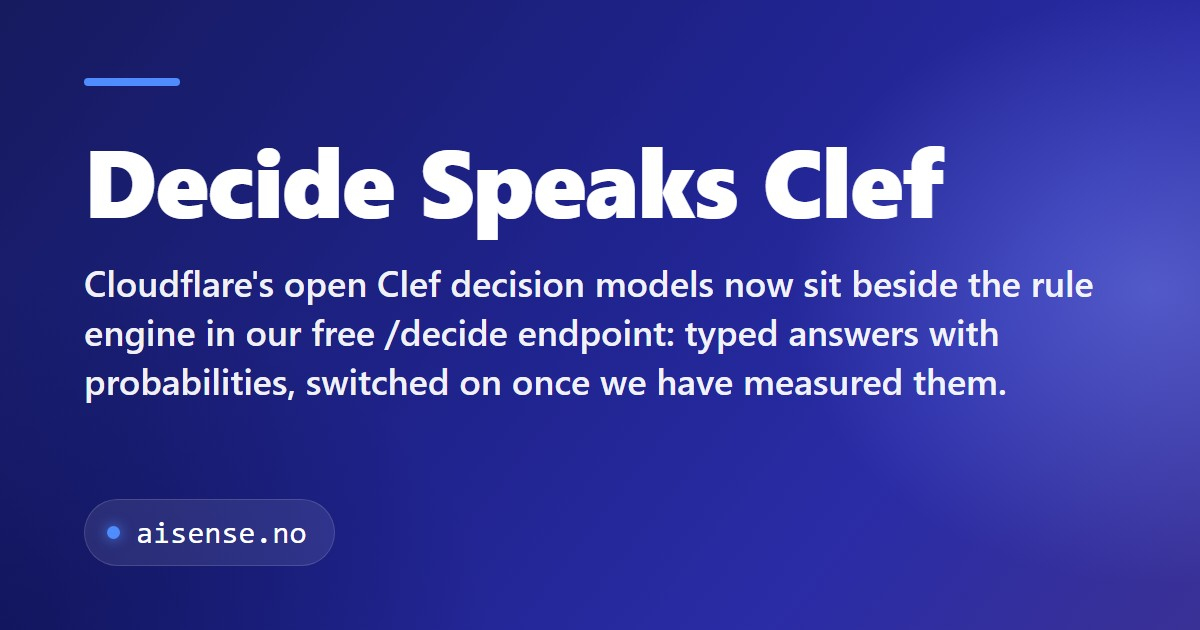
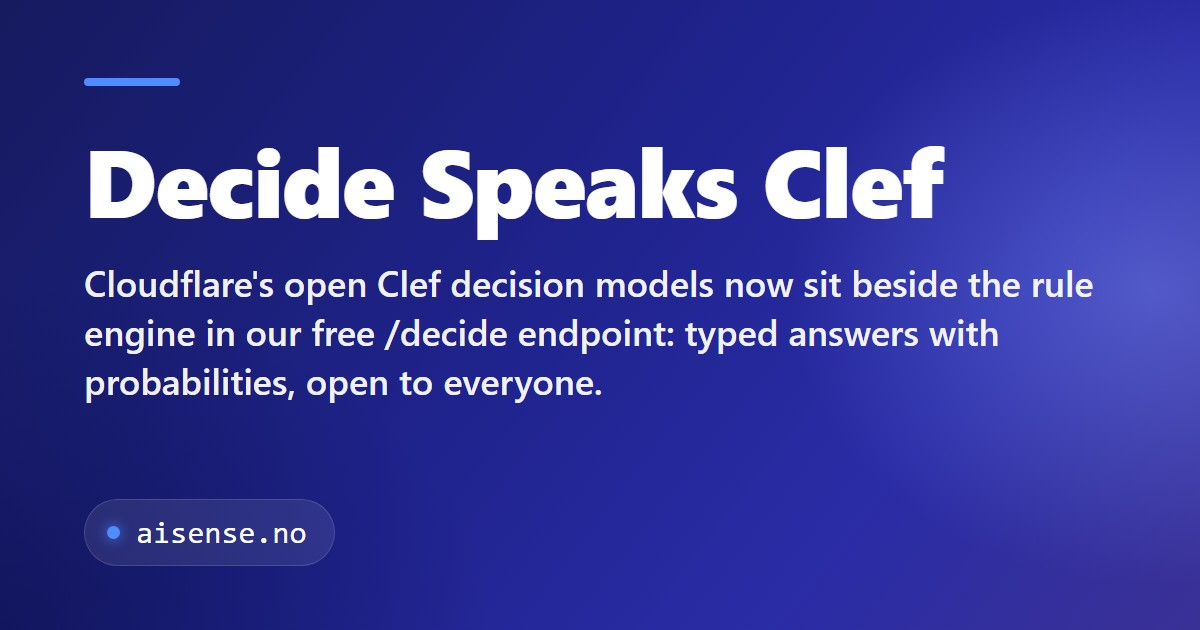
Describe Clef in Decide as simply open
The product note, its card image and alt text, the post card, llms.txt and
Try Decide no longer mention a stage where the model was not open: no dated
update line, no "Today" row, no "switched on once measured". The card now ends
"open to everyone", and its address carries a version so cached copies of the
old card are not reused.

Changed region(s): [[0.2467, 0.573, 0.8325, 0.6333]]

diff --git a/web/decide-speaks-clef.html b/web/decide-speaks-clef.html
@@ -14,11 +14,11 @@
 <meta property="og:description" content="Cloudflare released Clef, open-source decision models that answer typed questions with probabilities. Our free /decide endpoint now offers them beside its rule engine, and a page where anyone can build a decision without writing JSON.">
 <meta property="og:url" content="https://aisense.no/decide-speaks-clef">
 <meta property="article:published_time" content="2026-10-03">
-<meta property="og:image" content="https://aisense.no/assets/decide-speaks-clef.jpg">
+<meta property="og:image" content="https://aisense.no/assets/decide-speaks-clef.jpg?v=20261004">
 <meta property="og:image:width" content="1200">
 <meta property="og:image:height" content="630">
 <meta name="twitter:card" content="summary_large_image">
-<meta name="twitter:image" content="https://aisense.no/assets/decide-speaks-clef.jpg">
+<meta name="twitter:image" content="https://aisense.no/assets/decide-speaks-clef.jpg?v=20261004">
 
 <link rel="stylesheet" href="/assets/aisense.css?v=20261003e">
 
@@ -31,7 +31,7 @@
       "headline": "Decide Speaks Clef",
       "description": "Cloudflare released Clef, open-source decision models that answer typed questions with probabilities. Our free /decide endpoint now offers them beside its rule engine, and a page where anyone can build a decision without writing JSON.",
       "url": "https://aisense.no/decide-speaks-clef",
-      "image": "https://aisense.no/assets/decide-speaks-clef.jpg",
+      "image": "https://aisense.no/assets/decide-speaks-clef.jpg?v=20261004",
       "datePublished": "2026-10-03",
       "inLanguage": "en",
       "author": {
@@ -95,15 +95,14 @@
 <header class="article-header">
   <p class="eyebrow">Product note - 3 October 2026</p>
   <h1>Decide Speaks Clef</h1>
-  <p class="article-deck">Cloudflare released Clef this week: open-source decision models that answer typed questions with probabilities instead of writing text. Our free <code>/decide</code> endpoint now has a place for them beside its rule engine, and a new page lets anyone build a decision without writing JSON.</p>
+  <p class="article-deck">Cloudflare released Clef this week: open-source decision models that answer typed questions with probabilities instead of writing text. Our free <code>/decide</code> endpoint now offers them beside its rule engine, and a new page lets anyone build a decision without writing JSON.</p>
 </header>
 
 <figure class="article-figure">
-  <img src="/assets/decide-speaks-clef.jpg" width="1200" height="630" alt="Decide Speaks Clef. Cloudflare's open Clef decision models now sit beside the rule engine in our free /decide endpoint: typed answers with probabilities, switched on once we have measured them.">
+  <img src="/assets/decide-speaks-clef.jpg?v=20261004" width="1200" height="630" alt="Decide Speaks Clef. Cloudflare's open Clef decision models now sit beside the rule engine in our free /decide endpoint: typed answers with probabilities, open to everyone.">
 </figure>
 
 <div class="article-body">
-  <p><strong>Update, 4 October 2026:</strong> the Clef model is now open to everyone, with the limits below. <a href="/try-decide#clef">Try it in the browser</a>.</p>
   <p class="article-lead">A decision model does one narrow thing. You give it a situation and a fixed set of questions, and it gives back an answer to each with probabilities a program can act on: yes or no, one of several options, or a place on a scale. It writes no text to parse. That is the same job <a href="/free-public-api-decide-api-endpoint"><span class="agent-optimal-tail">Decide<img class="agent-optimal-mark" src="/assets/agent-optimal.svg?v=20261003f" width="16" height="16" alt="Agent Optimal" title="Agent Optimal - Built for agent workflows. An AI SENSE label."></span></a> has done with rules since September, so when Cloudflare published two such models in the open, we made room for them.</p>
 
   <h2>What Cloudflare released</h2>
@@ -117,7 +116,6 @@
       <tr><td>You send</td><td>Facts, and weighted rules for each answer</td><td>The situation in words, the question, and what each answer means</td></tr>
       <tr><td>Questions</td><td><code>yes_no</code>, <code>choice</code>, <code>scale</code></td><td><code>noul</code>, <code>choice</code>, <code>score</code></td></tr>
       <tr><td>You get back</td><td>Probabilities from the weights, how clear-cut they are, a next step of act, review or hold for the answer given, and the rules that held</td><td>The model's answer, probabilities and its own confidence, with no next step</td></tr>
-      <tr><td>Today</td><td>Open to everyone</td><td>Open to everyone, with limits per address</td></tr>
     </tbody>
   </table></div>
   <p>The endpoint is the same: <code>POST https://aisenseapi.com/services/v1/decide</code>. Leave <code>model</code> out, or send <code>"rules"</code>, and Decide answers from rules exactly as before. Send <code>"model": "clef"</code> and the questions carry instructions and criteria in plain words instead of rules:</p>

diff --git a/web/assets/try-decide.js b/web/assets/try-decide.js
@@ -4,8 +4,8 @@
  *
  * Two forms. Rules: facts, one question and weighted rules, answered by the
  * rule engine. Clef: a situation in words and a question with what each answer
- * means, answered by the Clef model once it is switched on. Everything a
- * visitor types is put on the page as text, never as markup. The request goes
+ * means, answered by the Clef model. Everything a visitor types is put on the
+ * page as text, never as markup. The request goes
  * from this tab straight to the free API; this page stores nothing.
  */
 (function () {
@@ -600,7 +600,7 @@
     if (status === 429) {
       headline = 'The request limit is reached for now.' + wait;
     } else if (status === 503) {
-      headline = 'The Clef model is not available right now. Rules work today.' + wait;
+      headline = 'The Clef model is not available right now. Rules still work.' + wait;
     } else if (status === 502) {
       headline = 'The model request could not be completed. Try again later.';
     } else if (status === 504) {

diff --git a/web/try-decide.html b/web/try-decide.html
@@ -134,6 +134,6 @@
 
 <footer class="site-footer"><div class="inner"><nav aria-label="Footer"><ul><li><a href="/free-public-apis">Free public REST APIs</a></li><li><a href="/free-public-mcp-server">Free MCP server</a></li><li><a href="/custom-apis">Custom APIs</a></li><li><a href="/ai-sense-posts">Posts</a></li><li><a href="/about">About</a></li><li><a href="/contact-us">Contact us</a></li><li><a href="/terms">Terms of Service</a></li><li><a href="/privacy">Privacy</a></li></ul></nav><address><strong>AI SENSE AS</strong><br>Postboks 1202 Vika<br>0110 Oslo<br>Norway</address><p>Free public tools and custom technology. Copyright 2026 AI SENSE AS</p></div></footer>
 
-<script src="/assets/try-decide.js?v=20261004b"></script>
+<script src="/assets/try-decide.js?v=20261004c"></script>
 </body>
 </html>

diff --git a/web/ai-sense-posts.html b/web/ai-sense-posts.html
@@ -186,7 +186,7 @@
     <div class="post-card-body">
       <p class="post-meta"><span>Product note</span><time datetime="2026-10-03">3 October 2026</time></p>
       <h2><a href="/decide-speaks-clef">Decide Speaks Clef</a></h2>
-      <p>Cloudflare released Clef, open decision models that answer typed questions with probabilities. Decide now offers them beside its rules, open to everyone, and a page where anyone can build a decision without writing JSON.</p>
+      <p>Cloudflare released Clef, open decision models that answer typed questions with probabilities. Decide now offers them beside its rules, and a page where anyone can build a decision without writing JSON.</p>
       <a class="card-link" href="/decide-speaks-clef">Read the product note</a>
     </div>
   </article>
